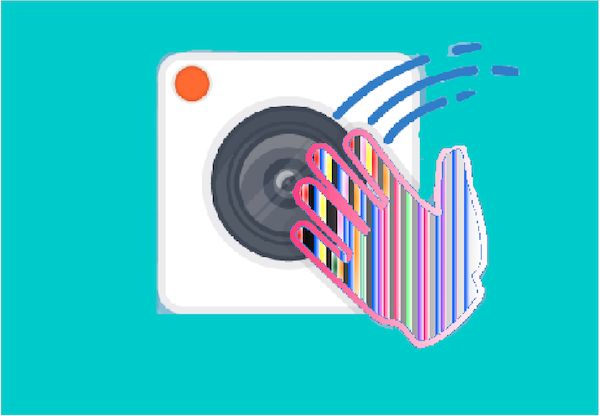
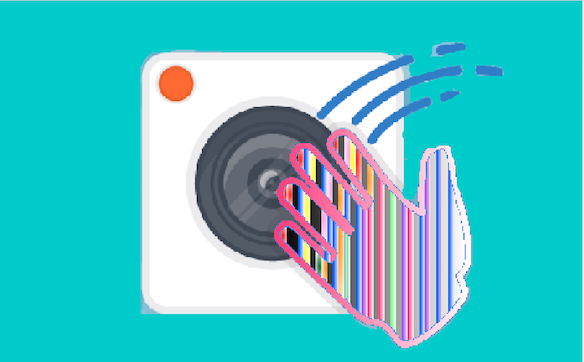
add twitter

Changed region(s): [[0.2158, 0.0912, 0.863, 0.9724], [0.0, 0.0, 0.0308, 1.0]]

diff --git a/src/lib/libraries/extensions/index.js b/src/lib/libraries/extensions/index.js
@@ -15,11 +15,13 @@ import microbitImage from './Microbit_extension.png';
 import trackingImage from './Color_extension.png';
 import watsonVision from './Vision_extension.png';
 import watsonNlc from './Nlc_extension.png';
-import videoImage from './Color_extension.png';
+import colorImage from './Color_extension.png';
+import videoImage from './Video_extension.png';
 import ev3Image from './ev3.png';
 import boostImage from './boost.png';
 import styleImage from './Clarifai_extension.png';
 import wemoImage from './wemo_ext.png';
+import twitterImage from './twitter_ext.jpg';
 
 export default [
     {
@@ -152,6 +154,13 @@ export default [
         extensionURL: 'watson_speech',
         iconURL: speechImage,
         description: 'Speech to text',
+        featured: true
+    },
+    {
+        name: 'Twitter',
+        extensionURL: 'twitter',
+        iconURL: twitterImage,
+        description: 'Connect to Twitter',
         featured: true
     },
     {    
